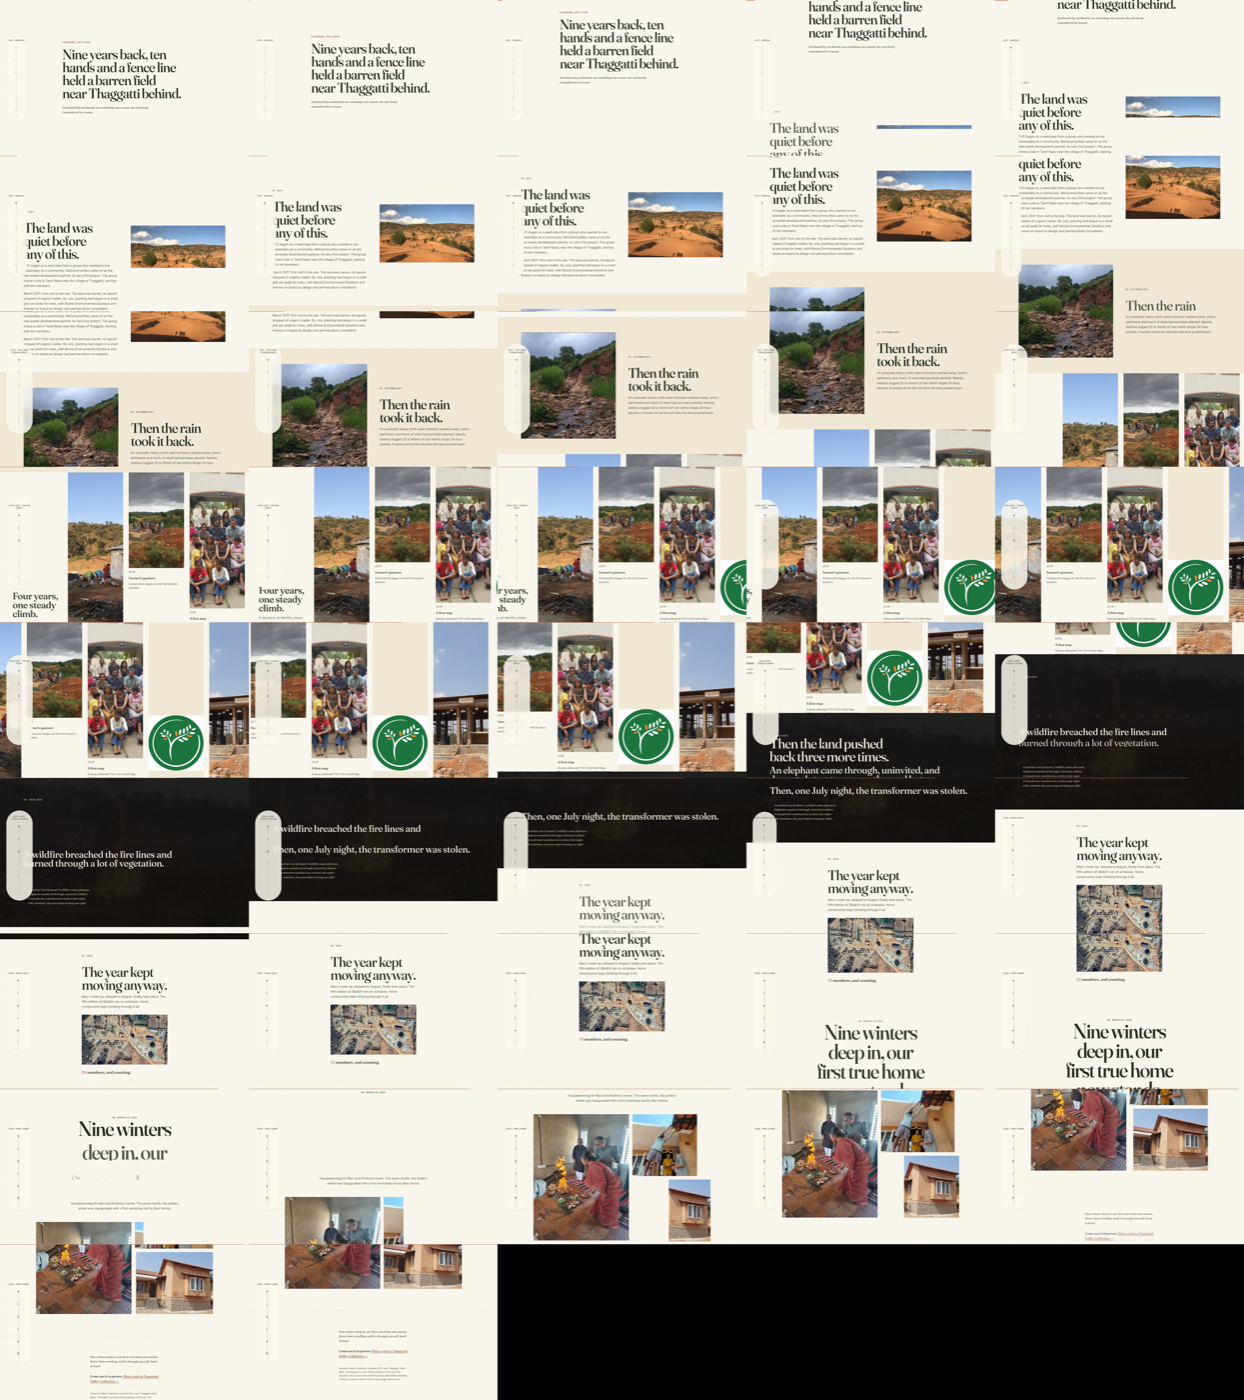
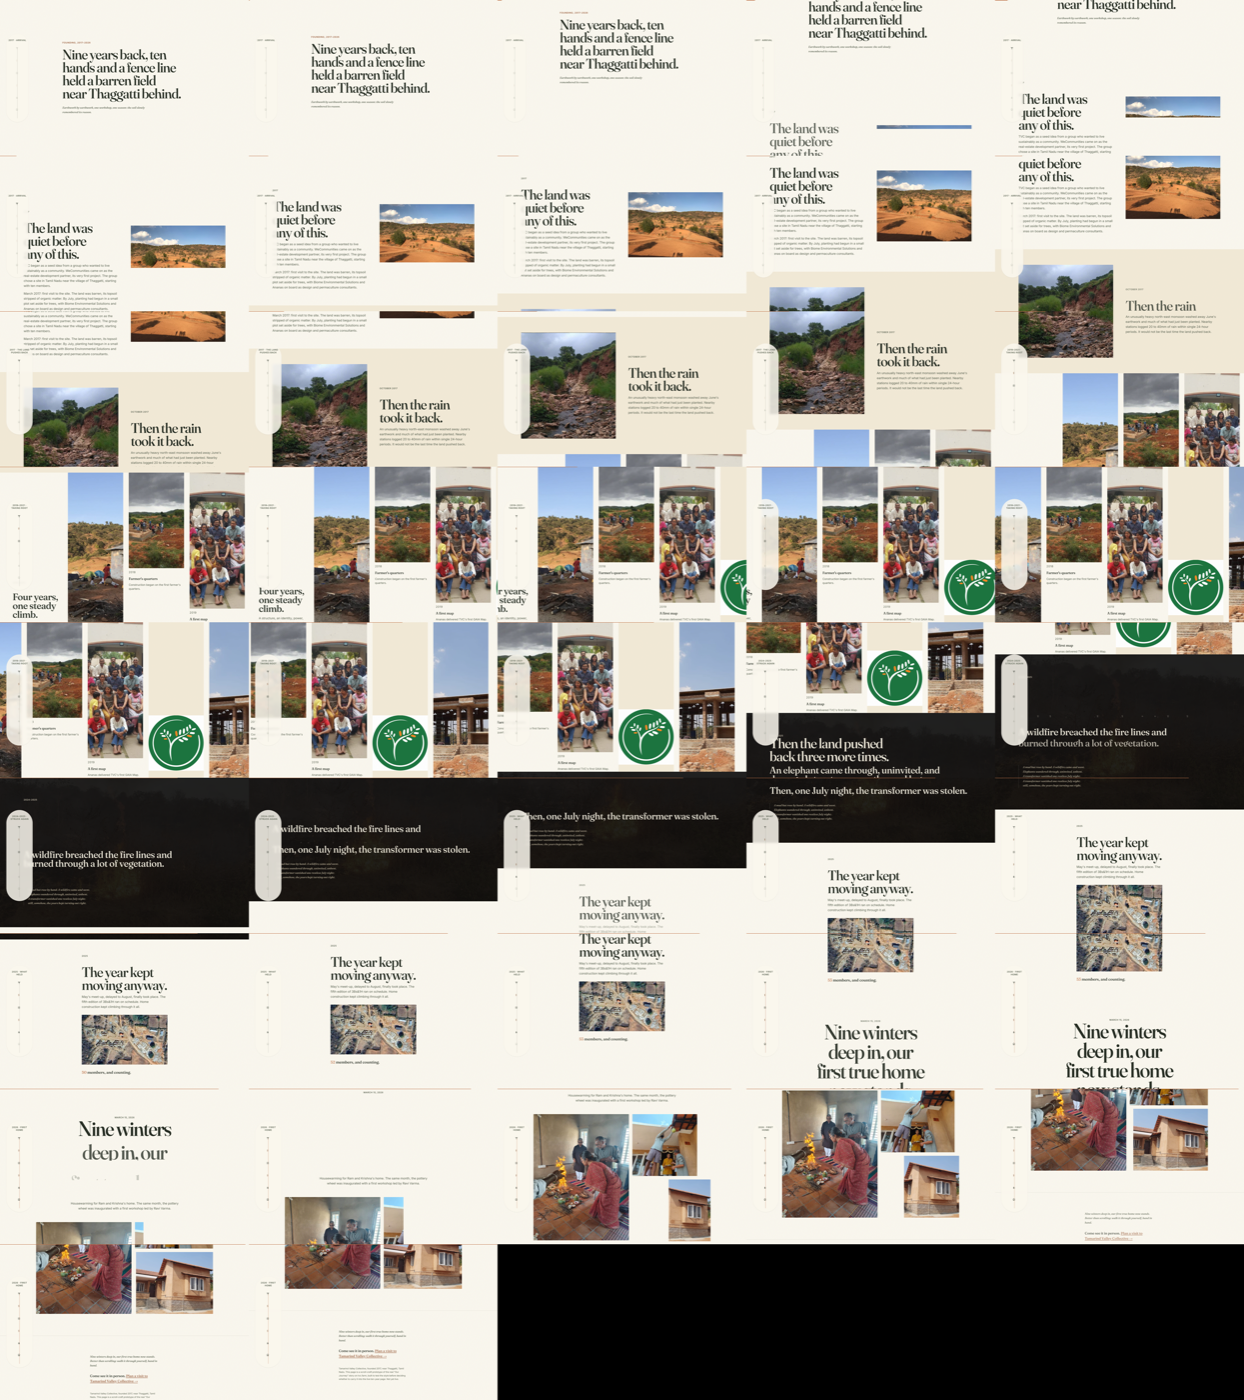
fix: address design-hook findings on Our Journey scroll-craft prototype
Fixed the two real issues from the impeccable Stop-hook pass: dropped the
arbitrary 01/02/03 ordinal prefixes from chapter labels (the real dates
already carry the actual chronological information), and consolidated 9
near-duplicate small text sizes (11.5-18.4px) down to two shared label/body
sizes plus a clearer 1.25rem step for card headings.

Verified the other 4 flagged issues (cramped-padding x2, overused-font x2)
against a real Chrome render before suppressing: all four were the detector
reading an element's own declared box/the untouched engine's unused default
tokens rather than the resolved cascade or a nested wrapper's padding.
Suppressed narrowly (this file only) with the measurements recorded in each
ignore reason. Re-verified all three scroll-craft passes clean afterward.

diff --git a/scrollcraft/builds/our-journey/index.html b/scrollcraft/builds/our-journey/index.html
@@ -52,7 +52,7 @@
   }
 
   .tvc-folio-inline {
-    font: 600 0.78rem/1 var(--sc-font-text);
+    font: 600 0.8rem/1 var(--sc-font-text);
     letter-spacing: 0.06em;
     text-transform: uppercase;
     color: var(--sc-ink-soft);
@@ -69,7 +69,7 @@
   .tvc-title .sc-wrap { max-width: 54rem; }
   .tvc-title h1 { margin: 0 0 var(--sc-6); }
   .tvc-poem {
-    font: 400 1.05rem/1.6 var(--sc-font-display);
+    font: 400 1rem/1.6 var(--sc-font-display);
     font-style: italic;
     color: var(--sc-ink-soft);
     white-space: pre-line;
@@ -152,8 +152,8 @@
     display: flex; flex-direction: column; gap: var(--sc-3);
   }
   .rail .item img { width: 100%; aspect-ratio: 4/3; object-fit: cover; border-radius: 2px; }
-  .rail .item h3 { font: 500 1.15rem/1.2 var(--sc-font-display); margin: 0; }
-  .rail .item p { font: 400 0.95rem/1.45 var(--sc-font-text); color: var(--sc-ink-soft); margin: 0; }
+  .rail .item h3 { font: 500 1.25rem/1.2 var(--sc-font-display); margin: 0; }
+  .rail .item p { font: 400 1rem/1.45 var(--sc-font-text); color: var(--sc-ink-soft); margin: 0; }
   .rail .item .tvc-folio-inline { margin-bottom: 2px; }
 
   /* ---- what held: flow + count ---- */
@@ -191,11 +191,11 @@
   }
   .tvc-colophon .sc-wrap { max-width: 34rem; }
   .tvc-colophon .tvc-poem { margin-bottom: var(--sc-6); }
-  .tvc-cta-line { font: 500 1.15rem/1.5 var(--sc-font-display); margin: 0 0 var(--sc-7); }
+  .tvc-cta-line { font: 500 1.25rem/1.5 var(--sc-font-display); margin: 0 0 var(--sc-7); }
   .tvc-cta-line a { color: var(--tvc-accent-text); text-decoration-thickness: 1.5px; text-underline-offset: 3px; }
   .tvc-cta-line a:hover { color: var(--sc-ink); }
   .tvc-cta-line a:focus-visible { outline: 2px solid var(--sc-accent); outline-offset: 3px; border-radius: 2px; }
-  .tvc-colophon__small { font: 400 0.82rem/1.6 var(--sc-font-text); color: var(--sc-ink-soft); margin: 0; }
+  .tvc-colophon__small { font: 400 0.8rem/1.6 var(--sc-font-text); color: var(--sc-ink-soft); margin: 0; }
 
   /* =====================================================================
      Signature move: "the skyline mends itself".
@@ -230,7 +230,7 @@
     box-shadow: 0 1px 3px rgba(34,41,31,0.1);
   }
   .tvc-folio__label {
-    font: 600 0.72rem/1.3 var(--sc-font-text);
+    font: 600 0.8rem/1.3 var(--sc-font-text);
     letter-spacing: 0.05em;
     text-transform: uppercase;
     color: var(--sc-ink-soft);
@@ -352,7 +352,7 @@
   <section class="tvc-chapter" data-sc-act="flow" data-tvc-chapter="arrival" data-tvc-year="2017" data-tvc-title="Arrival">
     <div class="sc-wrap tvc-split">
       <div class="sc-stack" data-sc-in data-sc-stagger="70">
-        <p class="tvc-folio-inline">01 &middot; 2017</p>
+        <p class="tvc-folio-inline">2017</p>
         <h2 class="sc-display sc-display--lg">The land was quiet before any of this.</h2>
         <p class="sc-body">TVC began as a seed idea from a group who wanted to live sustainably as a community. WeCommunities came on as the real-estate development partner, its very first project. The group chose a site in Tamil Nadu near the village of Thaggatti, starting with ten members.</p>
         <p class="sc-body">March 2017: first visit to the site. The land was barren, its topsoil stripped of organic matter. By July, planting had begun in a small plot set aside for trees, with Biome Environmental Solutions and Ananas on board as design and permaculture consultants.</p>
@@ -370,7 +370,7 @@
         <img data-sc-parallax="0.5" src="assets/journey-48.jpg" width="1400" height="1400" alt="The site after an unusually heavy October 2017 monsoon washed out the season's earthwork.">
       </figure>
       <div class="sc-stack" data-sc-in data-sc-stagger="70">
-        <p class="tvc-folio-inline">02 &middot; October 2017</p>
+        <p class="tvc-folio-inline">October 2017</p>
         <h2 class="sc-display sc-display--lg">Then the rain took it back.</h2>
         <p class="sc-body">An unusually heavy north-east monsoon washed away June's earthwork and much of what had just been planted. Nearby stations logged 20 to 40mm of rain within single 24-hour periods. It would not be the last time the land pushed back.</p>
       </div>
@@ -382,7 +382,7 @@
     <div data-sc-stage>
       <div class="rail" data-sc-pan="0.1">
         <div class="rail__lead sc-stack">
-          <p class="tvc-folio-inline">03 &middot; 2018&ndash;2021</p>
+          <p class="tvc-folio-inline">2018&ndash;2021</p>
           <h2 class="sc-display sc-display--md">Four years, one steady climb.</h2>
           <p class="sc-body">A structure, an identity, power, and the first animal on the land.</p>
         </div>
@@ -423,7 +423,7 @@
   <!-- CH 4 · STRUCK AGAIN: kinetic, hard cuts, 2024-2025 -->
   <section class="tvc-struck" data-sc-act="flow" data-tvc-chapter="struck" data-tvc-year="2024–2025" data-tvc-title="Struck again">
     <div class="sc-wrap">
-      <p class="tvc-folio-inline">04 &middot; 2024&ndash;2025</p>
+      <p class="tvc-folio-inline">2024&ndash;2025</p>
       <h2 class="sc-display sc-display--lg" data-sc-cue="0 0.3 0" data-sc-kinetic="lines">Then the land pushed back three more times.</h2>
       <h2 class="sc-display sc-display--md" data-sc-cue="0.15 0.42" data-sc-kinetic="lines">An elephant came through, uninvited, and damaged structures near the mud hut.</h2>
       <h2 class="sc-display sc-display--md" data-sc-cue="0.36 0.63" data-sc-kinetic="lines">A wildfire breached the fire lines and burned through a lot of vegetation.</h2>
@@ -438,7 +438,7 @@ still, somehow, the years kept turning out right.</p>
   <!-- CH 5 · WHAT HELD: flow + count, 2025 continued -->
   <section class="tvc-chapter tvc-held" data-sc-act="flow" data-tvc-chapter="held" data-tvc-year="2025" data-tvc-title="What held">
     <div class="sc-wrap sc-stack" data-sc-in data-sc-stagger="70">
-      <p class="tvc-folio-inline">05 &middot; 2025</p>
+      <p class="tvc-folio-inline">2025</p>
       <h2 class="sc-display sc-display--lg">The year kept moving anyway.</h2>
       <p class="sc-body">May's meet-up, delayed to August, finally took place. The fifth edition of 3Bs&amp;1H ran on schedule. Home construction kept climbing through it all.</p>
       <img src="assets/journey-41.jpg" width="1400" height="813" alt="Home construction making steady progress at TVC in August 2025.">
@@ -450,7 +450,7 @@ still, somehow, the years kept turning out right.</p>
   <section class="tvc-chapter tvc-chapter--peak" data-sc-act="flow" data-tvc-chapter="home" data-tvc-year="2026" data-tvc-title="First home">
     <div class="sc-wrap tvc-peak-wrap">
       <div class="tvc-peak-copy sc-stack" data-sc-in data-sc-stagger="80">
-        <p class="tvc-folio-inline">06 &middot; March 15, 2026</p>
+        <p class="tvc-folio-inline">March 15, 2026</p>
         <h2 class="sc-display sc-display--xl" data-sc-cue="0 0.4 0" data-sc-kinetic="lines">Nine winters deep in, our first true home now stands.</h2>
         <p class="sc-body" style="margin-inline:auto;">Housewarming for Ram and Krishna's home. The same month, the pottery wheel was inaugurated with a first workshop led by Ravi Varma.</p>
       </div>

diff --git a/scrollcraft/builds/our-journey/BRIEF.md b/scrollcraft/builds/our-journey/BRIEF.md
@@ -207,3 +207,36 @@ working as designed: the rail becomes a fully-visible static stack (confirmed
 visually — all four cards shown at once, nothing hidden), so continued
 vertical scroll is naturally static because there is nothing left to reveal.
 The harness's generic dead-scroll heuristic does not special-case this.
+
+## Second verification pass (project design hook)
+
+The project's own `impeccable` design hook flagged 11 issues on its deeper
+Stop-hook pass. Triaged each against a real Chrome render rather than trusting
+or dismissing the tool:
+
+- **4 confirmed false positives**, same root cause as the contrast issue
+  above (the detector reads an element's own declared CSS / the untouched
+  engine's default tokens, not the resolved cascade or a nested wrapper's
+  padding): `cramped-padding` on `.tvc-chapter`/`.tvc-colophon` (real measured
+  inset: 118-630px, not 0 — their padding lives on a nested wrapper div) and
+  `overused-font` for "geist"/"instrument sans" (never rendered anywhere;
+  `getComputedStyle` confirms Fraunces/Inter throughout — those names only
+  exist as the untouched engine's own unused default fallbacks). Suppressed
+  narrowly, scoped to this one file, with the measurements recorded in each
+  ignore reason.
+- **2 real findings, fixed:**
+  1. `numbered-section-labels` (6 instances): every chapter's `01 ·`, `02 ·`
+     ... prefix was arbitrary decoration — the real date next to it already
+     carries the actual chronological information, more honestly than a
+     counter would. Dropped the prefixes; labels now just read "2017",
+     "October 2017", "2018–2021", etc.
+  2. `flat-type-hierarchy`: 9 distinct small text sizes bunched between
+     11.5px and 22.4px with no clear steps. Consolidated the bespoke label/
+     caption sizes (kicker, folio labels, colophon small print) to one shared
+     0.8rem, folded two near-body sizes (poem, rail card copy) into 1rem, and
+     gave the rail card heading and CTA line a real 1.25rem step instead of
+     an arbitrary 1.15rem.
+
+Re-ran all three verification passes after both fixes; still clean (no dead
+scroll beyond the documented `pan` fallback, contrast clear everywhere).
+Sheets in `lab/` reflect this final version.
